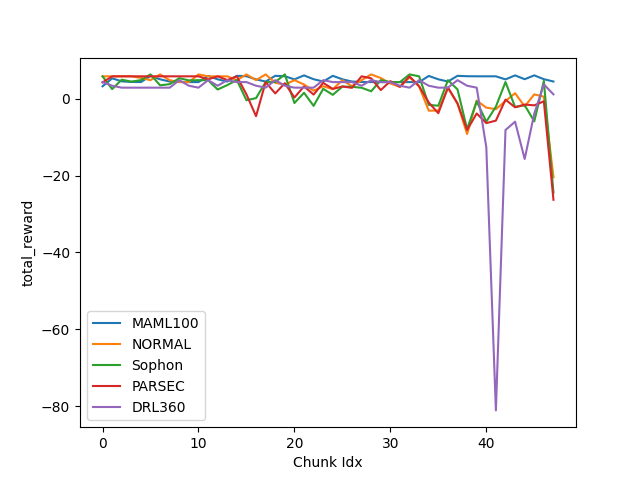
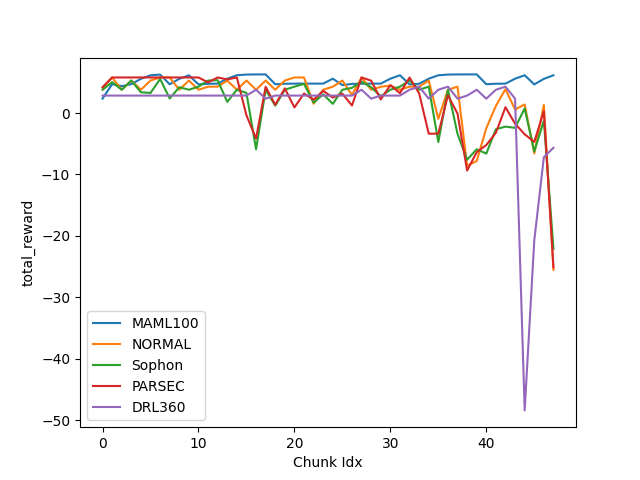
upload model

diff --git a/client.py b/client.py
@@ -133,8 +133,6 @@ class Client:
         self.bandwidth_list = []
 
     def add_reward(self, abr_reward, place_reward, video_chunk_size, total_reward):
-        # if self.maml:
-        #     total_reward += 1
         self.abr_reward_list.append(abr_reward)
         self.place_reward_list.append(place_reward)
         self.full_reward_list.append(total_reward)
@@ -227,7 +225,7 @@ class Client:
             rebuffer_time = np.maximum(terminal_delay - self.buffer_time, 0.0)
             self.buffer_time = np.maximum(self.buffer_time - terminal_delay, 0.0)
             self.buffer_time += VIDEO_CHUNCK_LEN
-            total_reward = END_BIT_RATE[end_bitrate] / 1000 - self.env.rebuff_p * rebuffer_time + self.env.smooth_p * np.abs(end_bitrate - self.last_bitrate)
+            total_reward = END_BIT_RATE[end_bitrate] / 1000 - self.env.rebuff_p * rebuffer_time - self.env.smooth_p * np.abs(end_bitrate - self.last_bitrate)
             self.last_bitrate = end_bitrate
 
             self.add_reward(reward, place_reward, video_chunk_size+plus_throuput, total_reward)
